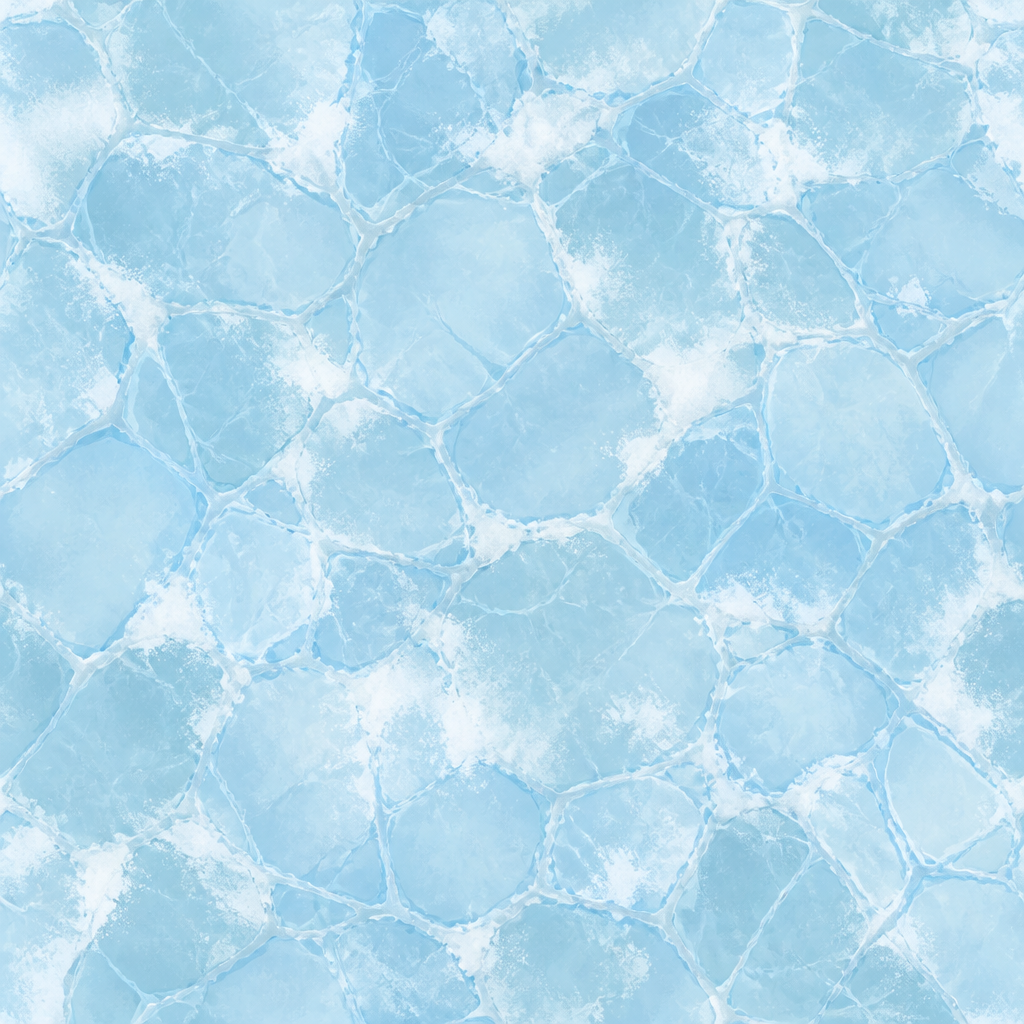
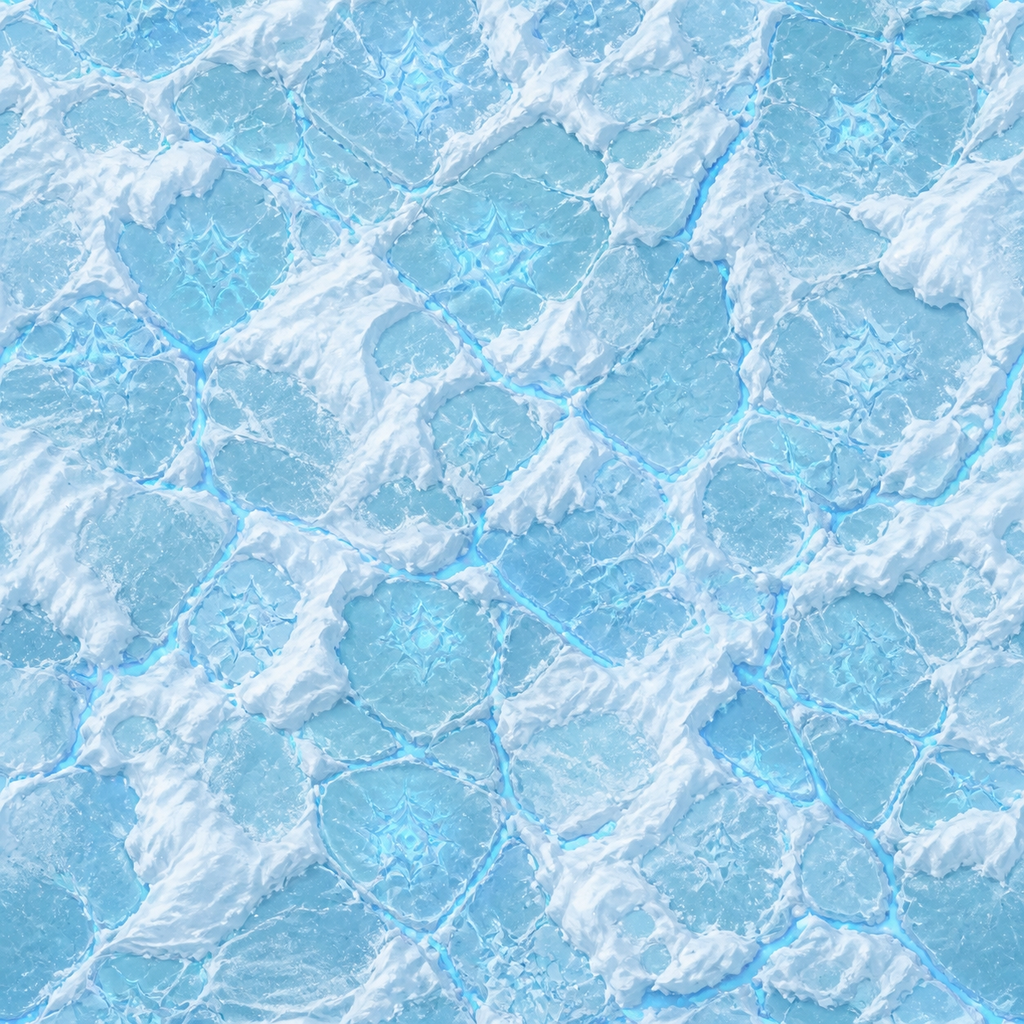
v483: 서리왕국 바닥 텍스처 재생성(눈 퇴적·빙하 균열·룬)·킹타워 지도별 테마 스킨 4지대×팀틴트

diff --git a/royal-arena/sw.js b/royal-arena/sw.js
@@ -1,10 +1,10 @@
-const CACHE = 'royal-arena-v482';
+const CACHE = 'royal-arena-v483';
 /* v449: 점진 캐싱 수복 — 구조 결함(install addAll 전량 실패) 제거.
    구버전: CORE 전량(330종·81MB) addAll → 자산 1개 실패 시 install reject → 기기가 구버전에 무기한 갇힘(v446 지연·미갱신 사고의 근원).
    신버전: ①install은 셸(html·js·아이콘, ~2MB)만 allSettled 선캐시 ②전체 assets는 activate 이후 백그라운드 프리페치(allSettled — 절대 reject 안 함)
    ③fetch는 기존 정책 유지(내비게이션 network-first·자산 SWR) — 개별 자산 실패가 갱신을 죽이지 않는다. */
 const SHELL = ['./', 'index.html', 'manifest.json', 'icon-192.png', 'icon-512.png', 'maskable-512.png', 'js/g1a-art-assets.js', 'js/g1b-art-assets.js', 'js/g1c-art-assets.js', 'js/g2-sprite-assets.js', 'js/g3-frame-assets.js', 'js/g4-ux-data.js', 'js/g5-core.js', 'js/g6-battle.js', 'js/g7-ui-systems.js', 'js/g8-boot.js', 'js/g9-wide.js', 'js/g10-techtree.js', 'qa-driver.js'];
-const ASSETS = ['assets/ra_card_netter.jpg', 'assets/ra_card_buzzer.jpg', 'assets/ra_card_batqueen.jpg', 'assets/ra_card_catapult.jpg', 'assets/ra_spr_netter.png', 'assets/ra_spr_buzzer.png', 'assets/ra_spr_batqueen.png', 'assets/ra_spr_catapult.png', 'assets/ra_walk_netter.png', 'assets/ra_walk_buzzer.png', 'assets/ra_walk_batqueen.png', 'assets/ra_atk_netter.png', 'assets/ra_atk_batqueen.png', 'assets/ra_btn_gold.png', 'assets/ra_btn_gilt.png', 'assets/ra_cta_plaque.png', 'assets/ra_btn_camp.png', 'assets/ra_btn_decked.png', 'assets/ra_btn_shield.png', 'assets/ra_btn_relic.png', 'assets/ra_btn_crown.png', 'assets/ra_btn_tactics.png', 'assets/ra_btn_diff.png', 'assets/ra_btn_diff_normal.png', 'assets/ra_btn_diff_nightmare.png', 'assets/ra_btn_diff_hell.png', 'assets/ra_boss_royal.png', 'assets/ra_boss_frost.png', 'assets/ra_boss_lava.png', 'assets/ra_boss_waste.png', 'assets/ra_boss_abyss.png', 'assets/ra_boss_sky.png', 'assets/ra_boss_tomb.png', 'assets/ra_boss_dusk.png', 'assets/ra_boss_divine.png', 'assets/ra_btn_navy.png', 'assets/ra_btn_plaque.png', 'assets/ra_btn_mapframe.png', 'assets/ra_map_classic.png', 'assets/ra_map_lava.png', 'assets/ra_map_ice.png', 'assets/ra_map_wasteland.png', 'assets/ra_map_abyss.png', 'assets/ra_map_sky.png', 'assets/ra_map_tomb.png', 'assets/ra_map_dusk.png', 'assets/ra_map_divine.png', 'assets/ra_btn_camp_new.png', 'assets/ra_atk_buzzer.png', 'assets/ra_boss_abyss_atk1.png', 'assets/ra_boss_abyss_atk2.png', 'assets/ra_boss_abyss_atk3.png', 'assets/ra_boss_divine_atk1.png', 'assets/ra_boss_divine_atk2.png', 'assets/ra_boss_divine_atk3.png', 'assets/ra_boss_sky_atk1.png', 'assets/ra_boss_sky_atk2.png', 'assets/ra_boss_sky_atk3.png', 'assets/ra_boss_tomb_atk1.png', 'assets/ra_boss_tomb_atk2.png', 'assets/ra_boss_tomb_atk3.png', 'assets/ra_pose_batqueen_1.png', 'assets/ra_pose_batqueen_2.png', 'assets/ra_pose_buzzer_1.png', 'assets/ra_pose_buzzer_2.png', 'assets/ra_pose_netter_1.png', 'assets/ra_pose_netter_2.png', 'assets/img_017.jpg', 'assets/img_018.jpg', 'assets/img_019.jpg', 'assets/img_020.jpg', 'assets/img_021.jpg', 'assets/img_022.jpg', 'assets/img_023.jpg', 'assets/img_024.jpg', 'assets/img_025.jpg', 'assets/img_026.jpg', 'assets/img_027.jpg', 'assets/img_028.jpg', 'assets/img_029.png', 'assets/img_030.png', 'assets/img_031.png', 'assets/img_032.png', 'assets/img_033.png', 'assets/img_034.png', 'assets/img_035.png', 'assets/img_036.png', 'assets/img_037.png', 'assets/img_038.png', 'assets/img_039.png', 'assets/img_040.png', 'assets/img_041.png', 'assets/img_042.png', 'assets/img_043.png', 'assets/img_044.png', 'assets/img_045.jpg', 'assets/img_046.jpg', 'assets/img_047.jpg', 'assets/img_048.jpg', 'assets/img_049.jpg', 'assets/img_050.jpg', 'assets/img_051.png', 'assets/img_052.png', 'assets/img_053.png', 'assets/img_054.png', 'assets/img_055.png', 'assets/img_056.png', 'assets/img_057.jpg', 'assets/img_058.png', 'assets/img_059.png', 'assets/img_060.png', 'assets/img_061.png', 'assets/img_062.png', 'assets/img_063.png', 'assets/img_064.png', 'assets/img_065.png', 'assets/img_066.jpg', 'assets/img_067.png', 'assets/img_068.png', 'assets/img_069.png', 'assets/img_070.jpg', 'assets/img_071.png', 'assets/img_072.png', 'assets/img_073.png', 'assets/img_074.png', 'assets/img_075.png', 'assets/img_076.png', 'assets/img_077.png', 'assets/img_078.png', 'assets/img_079.png', 'assets/img_080.png', 'assets/img_081.png', 'assets/img_082.png', 'assets/img_083.png', 'assets/img_084.png', 'assets/img_085.png', 'assets/img_086.png', 'assets/img_087.png', 'assets/img_088.png', 'assets/img_089.png', 'assets/img_090.png', 'assets/img_091.png', 'assets/img_092.png', 'assets/img_093.png', 'assets/img_094.png', 'assets/img_095.png', 'assets/img_096.png', 'assets/img_097.png', 'assets/img_098.png', 'assets/img_099.png', 'assets/img_100.png', 'assets/img_101.png', 'assets/img_102.png', 'assets/img_103.png', 'assets/img_104.png', 'assets/img_105.png', 'assets/img_106.png', 'assets/img_107.png', 'assets/img_108.png', 'assets/img_109.png', 'assets/img_110.png', 'assets/img_111.png', 'assets/img_112.png', 'assets/img_113.png', 'assets/img_114.png', 'assets/img_115.png', 'assets/img_116.png', 'assets/img_117.png', 'assets/img_118.png', 'assets/img_119.png', 'assets/img_120.png', 'assets/img_121.png', 'assets/img_122.png', 'assets/img_123.png', 'assets/img_124.png', 'assets/img_125.png', 'assets/img_126.png', 'assets/img_127.png', 'assets/img_128.png', 'assets/img_129.png', 'assets/img_130.png', 'assets/img_131.png', 'assets/img_132.png', 'assets/img_133.png', 'assets/img_134.png', 'assets/img_135.png', 'assets/img_136.png', 'assets/img_137.png', 'assets/img_138.png', 'assets/img_139.png', 'assets/img_140.png', 'assets/img_141.png', 'assets/img_142.png', 'assets/img_143.png', 'assets/img_144.png', 'assets/img_145.png', 'assets/img_146.png', 'assets/img_147.png', 'assets/img_148.png', 'assets/img_149.png', 'assets/img_150.png', 'assets/img_151.png', 'assets/img_152.png', 'assets/img_153.png', 'assets/img_154.png', 'assets/img_155.png', 'assets/img_156.png', 'assets/img_157.png', 'assets/img_158.png', 'assets/img_159.png', 'assets/img_160.png', 'assets/img_161.png', 'assets/img_162.png', 'assets/img_163.png', 'assets/img_164.png', 'assets/img_165.png', 'assets/img_166.png', 'assets/img_167.png', 'assets/img_168.png', 'assets/img_169.png', 'assets/img_170.png', 'assets/img_171.png', 'assets/img_172.png', 'assets/img_173.png', 'assets/img_174.png', 'assets/img_175.png', 'assets/img_176.png', 'assets/img_177.png', 'assets/img_178.png', 'assets/img_179.png', 'assets/img_180.png', 'assets/img_181.png', 'assets/img_182.jpg', 'assets/img_183.jpg', 'assets/img_184.png', 'assets/img_185.jpg', 'assets/img_186.jpg', 'assets/img_187.jpg', 'assets/img_188.png', 'assets/img_189.png', 'assets/img_190.png', 'assets/img_191.png', 'assets/img_192.png', 'assets/img_193.png', 'assets/img_194.png', 'assets/img_195.png', 'assets/img_196.png', 'assets/img_197.png', 'assets/img_198.png', 'assets/img_199.png', 'assets/img_200.png', 'assets/img_201.png', 'assets/img_202.png', 'assets/img_203.png', 'assets/img_204.png', 'assets/img_205.png', 'assets/img_206.png', 'assets/img_207.png', 'assets/img_208.png', 'assets/img_209.png', 'assets/img_210.png', 'assets/img_211.png', 'assets/img_212.png', 'assets/img_213.png', 'assets/img_214.png', 'assets/img_215.png', 'assets/img_216.png', 'assets/img_217.png', 'assets/img_218.png', 'assets/img_219.png', 'assets/img_220.png', 'assets/img_221.png', 'assets/img_222.png', 'assets/img_223.png', 'assets/img_224.png', 'assets/img_225.png', 'assets/img_226.png', 'assets/img_227.png', 'assets/img_228.png', 'assets/img_229.png', 'assets/img_230.png', 'assets/img_231.png', 'assets/img_232.png', 'assets/img_233.png', 'assets/img_234.png', 'assets/img_235.png', 'assets/img_236.png', 'assets/img_237.png', 'assets/img_238.png', 'assets/img_239.png', 'assets/img_240.jpg', 'assets/img_241.jpg', 'assets/img_242.jpg', 'assets/img_243.jpg', 'assets/img_244.jpg', 'assets/img_245.jpg', 'assets/img_246.png', 'assets/img_247.png', 'assets/img_248.png', 'assets/img_249.png', 'assets/img_250.png', 'assets/img_251.png', 'assets/img_252.jpg', 'assets/img_253.jpg', 'assets/img_254.jpg', 'assets/img_255.jpg', 'assets/img_256.jpg', 'assets/img_257.jpg', 'assets/img_258.png', 'assets/img_259.png', 'assets/img_260.png', 'assets/img_261.png', 'assets/img_262.png', 'assets/img_263.png', 'assets/img_264.png', 'assets/ra_card_babyd.jpg', 'assets/ra_card_blizzard.jpg', 'assets/ra_card_boar.jpg', 'assets/ra_card_bomber.jpg', 'assets/ra_card_cleric.jpg', 'assets/ra_card_flamer.jpg', 'assets/ra_card_fort.jpg', 'assets/ra_card_glass.jpg', 'assets/ra_card_golem.jpg', 'assets/ra_card_greed.jpg', 'assets/ra_card_healwind.jpg', 'assets/ra_card_icem.jpg', 'assets/ra_card_lordknight.jpg', 'assets/ra_card_meteor.jpg', 'assets/ra_card_plasma.jpg', 'assets/ra_card_scarecrow.jpg', 'assets/ra_card_shock.jpg', 'assets/ra_card_valk.jpg', 'assets/ra_card_venom.jpg', 'assets/ra_card_xbow.jpg', 'assets/ra_fat_flamer.png', 'assets/ra_fat_golem.png', 'assets/ra_fat_greed.png', 'assets/ra_fat_lordknight.png', 'assets/ra_fat_scarecrow.png', 'assets/ra_fat_xbow.png', 'assets/ra_frame_boss_atk.png', 'assets/ra_fx_boom.png', 'assets/ra_fx_crater.png', 'assets/ra_fx_frost.png', 'assets/ra_fx_heal.png', 'assets/ra_fx_hit.png', 'assets/ra_fx_plasma_beam.png', 'assets/ra_fx_shock.png', 'assets/ra_fx_slash.png', 'assets/ra_fx_venom.png', 'assets/ra_pose_babyd_1.png', 'assets/ra_pose_babyd_2.png', 'assets/ra_pose_cleric_1.png', 'assets/ra_pose_cleric_2.png', 'assets/ra_pose_icem_1.png', 'assets/ra_pose_icem_2.png', 'assets/ra_proj_bolt.png', 'assets/ra_proj_kingshot.png', 'assets/ra_spr_flamer.png', 'assets/ra_spr_fort.png', 'assets/ra_spr_glass.png', 'assets/ra_spr_golem.png', 'assets/ra_spr_greed.png', 'assets/ra_spr_lordknight.png', 'assets/ra_spr_scarecrow.png', 'assets/ra_spr_xbow.png', 'assets/ra_tow_princess_abyss.png', 'assets/ra_tow_princess_ice.png', 'assets/ra_tow_princess_lava.png', 'assets/ra_tow_princess_wasteland.png', 'assets/ra_walk_archers.png', 'assets/ra_walk_boar.png', 'assets/ra_walk_bomber.png', 'assets/ra_walk_cleric.png', 'assets/ra_walk_flamer.png', 'assets/ra_walk_giant.png', 'assets/ra_walk_golem.png', 'assets/ra_walk_greed.png', 'assets/ra_walk_icem.png', 'assets/ra_walk_knight.png', 'assets/ra_walk_lordknight.png', 'assets/ra_walk_musketeer.png', 'assets/ra_walk_prince.png', 'assets/ra_walk_scarecrow.png', 'assets/ra_walk_skarmy.png', 'assets/ra_walk_sniper.png', 'assets/ra_walk_valk.png', 'assets/ra_walk_wizard.png', 'assets/ra_walk_xbow.png', 'assets/ra_practice_arena.png', 'assets/ra_test_floor.png', 'assets/ra_test_king_b.png', 'assets/ra_test_princess_b.png', 'assets/ra_test_king_r.png', 'assets/ra_test_princess_r.png', 'assets/ra_test_unit_idle.png', 'assets/ra_test_unit_atk.png', 'assets/ra_test_proj.png', 'assets/ra_tow457_king_b.png', 'assets/ra_tow457_princess_b.png', 'assets/ra_tow457_king_r.png', 'assets/ra_tow457_princess_r.png', 'assets/ra_tk_off1.png', 'assets/ra_tk_off2.png', 'assets/ra_tk_off2b.png', 'assets/ra_tk_off3.png', 'assets/ra_tk_def1.png', 'assets/ra_tk_def2.png', 'assets/ra_tk_def2b.png', 'assets/ra_tk_def3.png', 'assets/ra_tk_mag1.png', 'assets/ra_tk_mag2.png', 'assets/ra_tk_mag2b.png', 'assets/ra_tk_mag3.png', 'assets/ra_rl_relic_atk.png', 'assets/ra_rl_relic_guard.png', 'assets/ra_rl_relic_tower.png', 'assets/ra_rl_relic_speed.png', 'assets/ra_rl_relic_spell.png', 'assets/ra_rl_relic_repair.png', 'assets/ra_rl_relic_gold.png', 'assets/ra_rl_relic_ante.png', 'assets/ra_rl_ui_book.png', 'assets/ra_rl_ui_gem.png', 'assets/ra_rl_ui_scroll.png', 'assets/ra_rl_ui_lab.png'];
+const ASSETS = ['assets/ra_card_netter.jpg', 'assets/ra_card_buzzer.jpg', 'assets/ra_card_batqueen.jpg', 'assets/ra_card_catapult.jpg', 'assets/ra_spr_netter.png', 'assets/ra_spr_buzzer.png', 'assets/ra_spr_batqueen.png', 'assets/ra_spr_catapult.png', 'assets/ra_walk_netter.png', 'assets/ra_walk_buzzer.png', 'assets/ra_walk_batqueen.png', 'assets/ra_atk_netter.png', 'assets/ra_atk_batqueen.png', 'assets/ra_btn_gold.png', 'assets/ra_btn_gilt.png', 'assets/ra_kt_ice.png','assets/ra_kt_ice_b.png','assets/ra_kt_ice_r.png','assets/ra_kt_lava.png','assets/ra_kt_lava_b.png','assets/ra_kt_lava_r.png','assets/ra_kt_wasteland.png','assets/ra_kt_wasteland_b.png','assets/ra_kt_wasteland_r.png','assets/ra_kt_abyss.png','assets/ra_kt_abyss_b.png','assets/ra_kt_abyss_r.png', 'assets/ra_cta_plaque.png', 'assets/ra_btn_camp.png', 'assets/ra_btn_decked.png', 'assets/ra_btn_shield.png', 'assets/ra_btn_relic.png', 'assets/ra_btn_crown.png', 'assets/ra_btn_tactics.png', 'assets/ra_btn_diff.png', 'assets/ra_btn_diff_normal.png', 'assets/ra_btn_diff_nightmare.png', 'assets/ra_btn_diff_hell.png', 'assets/ra_boss_royal.png', 'assets/ra_boss_frost.png', 'assets/ra_boss_lava.png', 'assets/ra_boss_waste.png', 'assets/ra_boss_abyss.png', 'assets/ra_boss_sky.png', 'assets/ra_boss_tomb.png', 'assets/ra_boss_dusk.png', 'assets/ra_boss_divine.png', 'assets/ra_btn_navy.png', 'assets/ra_btn_plaque.png', 'assets/ra_btn_mapframe.png', 'assets/ra_map_classic.png', 'assets/ra_map_lava.png', 'assets/ra_map_ice.png', 'assets/ra_map_wasteland.png', 'assets/ra_map_abyss.png', 'assets/ra_map_sky.png', 'assets/ra_map_tomb.png', 'assets/ra_map_dusk.png', 'assets/ra_map_divine.png', 'assets/ra_btn_camp_new.png', 'assets/ra_atk_buzzer.png', 'assets/ra_boss_abyss_atk1.png', 'assets/ra_boss_abyss_atk2.png', 'assets/ra_boss_abyss_atk3.png', 'assets/ra_boss_divine_atk1.png', 'assets/ra_boss_divine_atk2.png', 'assets/ra_boss_divine_atk3.png', 'assets/ra_boss_sky_atk1.png', 'assets/ra_boss_sky_atk2.png', 'assets/ra_boss_sky_atk3.png', 'assets/ra_boss_tomb_atk1.png', 'assets/ra_boss_tomb_atk2.png', 'assets/ra_boss_tomb_atk3.png', 'assets/ra_pose_batqueen_1.png', 'assets/ra_pose_batqueen_2.png', 'assets/ra_pose_buzzer_1.png', 'assets/ra_pose_buzzer_2.png', 'assets/ra_pose_netter_1.png', 'assets/ra_pose_netter_2.png', 'assets/img_017.jpg', 'assets/img_018.jpg', 'assets/img_019.jpg', 'assets/img_020.jpg', 'assets/img_021.jpg', 'assets/img_022.jpg', 'assets/img_023.jpg', 'assets/img_024.jpg', 'assets/img_025.jpg', 'assets/img_026.jpg', 'assets/img_027.jpg', 'assets/img_028.jpg', 'assets/img_029.png', 'assets/img_030.png', 'assets/img_031.png', 'assets/img_032.png', 'assets/img_033.png', 'assets/img_034.png', 'assets/img_035.png', 'assets/img_036.png', 'assets/img_037.png', 'assets/img_038.png', 'assets/img_039.png', 'assets/img_040.png', 'assets/img_041.png', 'assets/img_042.png', 'assets/img_043.png', 'assets/img_044.png', 'assets/img_045.jpg', 'assets/img_046.jpg', 'assets/img_047.jpg', 'assets/img_048.jpg', 'assets/img_049.jpg', 'assets/img_050.jpg', 'assets/img_051.png', 'assets/img_052.png', 'assets/img_053.png', 'assets/img_054.png', 'assets/img_055.png', 'assets/img_056.png', 'assets/img_057.jpg', 'assets/img_058.png', 'assets/img_059.png', 'assets/img_060.png', 'assets/img_061.png', 'assets/img_062.png', 'assets/img_063.png', 'assets/img_064.png', 'assets/img_065.png', 'assets/img_066.jpg', 'assets/img_067.png', 'assets/img_068.png', 'assets/img_069.png', 'assets/img_070.jpg', 'assets/img_071.png', 'assets/img_072.png', 'assets/img_073.png', 'assets/img_074.png', 'assets/img_075.png', 'assets/img_076.png', 'assets/img_077.png', 'assets/img_078.png', 'assets/img_079.png', 'assets/img_080.png', 'assets/img_081.png', 'assets/img_082.png', 'assets/img_083.png', 'assets/img_084.png', 'assets/img_085.png', 'assets/img_086.png', 'assets/img_087.png', 'assets/img_088.png', 'assets/img_089.png', 'assets/img_090.png', 'assets/img_091.png', 'assets/img_092.png', 'assets/img_093.png', 'assets/img_094.png', 'assets/img_095.png', 'assets/img_096.png', 'assets/img_097.png', 'assets/img_098.png', 'assets/img_099.png', 'assets/img_100.png', 'assets/img_101.png', 'assets/img_102.png', 'assets/img_103.png', 'assets/img_104.png', 'assets/img_105.png', 'assets/img_106.png', 'assets/img_107.png', 'assets/img_108.png', 'assets/img_109.png', 'assets/img_110.png', 'assets/img_111.png', 'assets/img_112.png', 'assets/img_113.png', 'assets/img_114.png', 'assets/img_115.png', 'assets/img_116.png', 'assets/img_117.png', 'assets/img_118.png', 'assets/img_119.png', 'assets/img_120.png', 'assets/img_121.png', 'assets/img_122.png', 'assets/img_123.png', 'assets/img_124.png', 'assets/img_125.png', 'assets/img_126.png', 'assets/img_127.png', 'assets/img_128.png', 'assets/img_129.png', 'assets/img_130.png', 'assets/img_131.png', 'assets/img_132.png', 'assets/img_133.png', 'assets/img_134.png', 'assets/img_135.png', 'assets/img_136.png', 'assets/img_137.png', 'assets/img_138.png', 'assets/img_139.png', 'assets/img_140.png', 'assets/img_141.png', 'assets/img_142.png', 'assets/img_143.png', 'assets/img_144.png', 'assets/img_145.png', 'assets/img_146.png', 'assets/img_147.png', 'assets/img_148.png', 'assets/img_149.png', 'assets/img_150.png', 'assets/img_151.png', 'assets/img_152.png', 'assets/img_153.png', 'assets/img_154.png', 'assets/img_155.png', 'assets/img_156.png', 'assets/img_157.png', 'assets/img_158.png', 'assets/img_159.png', 'assets/img_160.png', 'assets/img_161.png', 'assets/img_162.png', 'assets/img_163.png', 'assets/img_164.png', 'assets/img_165.png', 'assets/img_166.png', 'assets/img_167.png', 'assets/img_168.png', 'assets/img_169.png', 'assets/img_170.png', 'assets/img_171.png', 'assets/img_172.png', 'assets/img_173.png', 'assets/img_174.png', 'assets/img_175.png', 'assets/img_176.png', 'assets/img_177.png', 'assets/img_178.png', 'assets/img_179.png', 'assets/img_180.png', 'assets/img_181.png', 'assets/img_182.jpg', 'assets/img_183.jpg', 'assets/img_184.png', 'assets/img_185.jpg', 'assets/img_186.jpg', 'assets/img_187.jpg', 'assets/img_188.png', 'assets/img_189.png', 'assets/img_190.png', 'assets/img_191.png', 'assets/img_192.png', 'assets/img_193.png', 'assets/img_194.png', 'assets/img_195.png', 'assets/img_196.png', 'assets/img_197.png', 'assets/img_198.png', 'assets/img_199.png', 'assets/img_200.png', 'assets/img_201.png', 'assets/img_202.png', 'assets/img_203.png', 'assets/img_204.png', 'assets/img_205.png', 'assets/img_206.png', 'assets/img_207.png', 'assets/img_208.png', 'assets/img_209.png', 'assets/img_210.png', 'assets/img_211.png', 'assets/img_212.png', 'assets/img_213.png', 'assets/img_214.png', 'assets/img_215.png', 'assets/img_216.png', 'assets/img_217.png', 'assets/img_218.png', 'assets/img_219.png', 'assets/img_220.png', 'assets/img_221.png', 'assets/img_222.png', 'assets/img_223.png', 'assets/img_224.png', 'assets/img_225.png', 'assets/img_226.png', 'assets/img_227.png', 'assets/img_228.png', 'assets/img_229.png', 'assets/img_230.png', 'assets/img_231.png', 'assets/img_232.png', 'assets/img_233.png', 'assets/img_234.png', 'assets/img_235.png', 'assets/img_236.png', 'assets/img_237.png', 'assets/img_238.png', 'assets/img_239.png', 'assets/img_240.jpg', 'assets/img_241.jpg', 'assets/img_242.jpg', 'assets/img_243.jpg', 'assets/img_244.jpg', 'assets/img_245.jpg', 'assets/img_246.png', 'assets/img_247.png', 'assets/img_248.png', 'assets/img_249.png', 'assets/img_250.png', 'assets/img_251.png', 'assets/img_252.jpg', 'assets/img_253.jpg', 'assets/img_254.jpg', 'assets/img_255.jpg', 'assets/img_256.jpg', 'assets/img_257.jpg', 'assets/img_258.png', 'assets/img_259.png', 'assets/img_260.png', 'assets/img_261.png', 'assets/img_262.png', 'assets/img_263.png', 'assets/img_264.png', 'assets/ra_card_babyd.jpg', 'assets/ra_card_blizzard.jpg', 'assets/ra_card_boar.jpg', 'assets/ra_card_bomber.jpg', 'assets/ra_card_cleric.jpg', 'assets/ra_card_flamer.jpg', 'assets/ra_card_fort.jpg', 'assets/ra_card_glass.jpg', 'assets/ra_card_golem.jpg', 'assets/ra_card_greed.jpg', 'assets/ra_card_healwind.jpg', 'assets/ra_card_icem.jpg', 'assets/ra_card_lordknight.jpg', 'assets/ra_card_meteor.jpg', 'assets/ra_card_plasma.jpg', 'assets/ra_card_scarecrow.jpg', 'assets/ra_card_shock.jpg', 'assets/ra_card_valk.jpg', 'assets/ra_card_venom.jpg', 'assets/ra_card_xbow.jpg', 'assets/ra_fat_flamer.png', 'assets/ra_fat_golem.png', 'assets/ra_fat_greed.png', 'assets/ra_fat_lordknight.png', 'assets/ra_fat_scarecrow.png', 'assets/ra_fat_xbow.png', 'assets/ra_frame_boss_atk.png', 'assets/ra_fx_boom.png', 'assets/ra_fx_crater.png', 'assets/ra_fx_frost.png', 'assets/ra_fx_heal.png', 'assets/ra_fx_hit.png', 'assets/ra_fx_plasma_beam.png', 'assets/ra_fx_shock.png', 'assets/ra_fx_slash.png', 'assets/ra_fx_venom.png', 'assets/ra_pose_babyd_1.png', 'assets/ra_pose_babyd_2.png', 'assets/ra_pose_cleric_1.png', 'assets/ra_pose_cleric_2.png', 'assets/ra_pose_icem_1.png', 'assets/ra_pose_icem_2.png', 'assets/ra_proj_bolt.png', 'assets/ra_proj_kingshot.png', 'assets/ra_spr_flamer.png', 'assets/ra_spr_fort.png', 'assets/ra_spr_glass.png', 'assets/ra_spr_golem.png', 'assets/ra_spr_greed.png', 'assets/ra_spr_lordknight.png', 'assets/ra_spr_scarecrow.png', 'assets/ra_spr_xbow.png', 'assets/ra_tow_princess_abyss.png', 'assets/ra_tow_princess_ice.png', 'assets/ra_tow_princess_lava.png', 'assets/ra_tow_princess_wasteland.png', 'assets/ra_walk_archers.png', 'assets/ra_walk_boar.png', 'assets/ra_walk_bomber.png', 'assets/ra_walk_cleric.png', 'assets/ra_walk_flamer.png', 'assets/ra_walk_giant.png', 'assets/ra_walk_golem.png', 'assets/ra_walk_greed.png', 'assets/ra_walk_icem.png', 'assets/ra_walk_knight.png', 'assets/ra_walk_lordknight.png', 'assets/ra_walk_musketeer.png', 'assets/ra_walk_prince.png', 'assets/ra_walk_scarecrow.png', 'assets/ra_walk_skarmy.png', 'assets/ra_walk_sniper.png', 'assets/ra_walk_valk.png', 'assets/ra_walk_wizard.png', 'assets/ra_walk_xbow.png', 'assets/ra_practice_arena.png', 'assets/ra_test_floor.png', 'assets/ra_test_king_b.png', 'assets/ra_test_princess_b.png', 'assets/ra_test_king_r.png', 'assets/ra_test_princess_r.png', 'assets/ra_test_unit_idle.png', 'assets/ra_test_unit_atk.png', 'assets/ra_test_proj.png', 'assets/ra_tow457_king_b.png', 'assets/ra_tow457_princess_b.png', 'assets/ra_tow457_king_r.png', 'assets/ra_tow457_princess_r.png', 'assets/ra_tk_off1.png', 'assets/ra_tk_off2.png', 'assets/ra_tk_off2b.png', 'assets/ra_tk_off3.png', 'assets/ra_tk_def1.png', 'assets/ra_tk_def2.png', 'assets/ra_tk_def2b.png', 'assets/ra_tk_def3.png', 'assets/ra_tk_mag1.png', 'assets/ra_tk_mag2.png', 'assets/ra_tk_mag2b.png', 'assets/ra_tk_mag3.png', 'assets/ra_rl_relic_atk.png', 'assets/ra_rl_relic_guard.png', 'assets/ra_rl_relic_tower.png', 'assets/ra_rl_relic_speed.png', 'assets/ra_rl_relic_spell.png', 'assets/ra_rl_relic_repair.png', 'assets/ra_rl_relic_gold.png', 'assets/ra_rl_relic_ante.png', 'assets/ra_rl_ui_book.png', 'assets/ra_rl_ui_gem.png', 'assets/ra_rl_ui_scroll.png', 'assets/ra_rl_ui_lab.png'];
 self.addEventListener('install', e => {
   e.waitUntil((async () => {
     try {

diff --git a/royal-arena/index.html b/royal-arena/index.html
@@ -1166,7 +1166,7 @@ html body #overlay-info>div{height:100% !important}
 html body #overlay-info .t-how,html body #overlay-info .t-note{padding-bottom:14px !important}
 html body #overlay-info #btn-info-close{position:sticky !important;bottom:calc(6px + env(safe-area-inset-bottom,0px)) !important;margin:10px auto 0 !important;flex-shrink:0 !important;z-index:7 !important;box-shadow:0 4px 14px rgba(0,0,0,.55) !important}
 html body #overlay-info{padding-bottom:env(safe-area-inset-bottom,0px) !important}
-</style><style id="ui-v453">/* v453: 연습게임 버튼 상단 우측 소형 배치 - 지도버튼보다 작음·겹침 방지(screen-audit 규약) */ #btn-practice{position:absolute!important;right:8px!important;left:auto!important;top:6px!important;bottom:auto!important;height:26px!important;min-height:0!important;min-width:0!important;width:auto!important;padding:0 9px!important;font-size:10px!important;border-radius:10px!important;z-index:60!important} #zoom-chip{max-width:calc(100% - 96px)!important}</style><div id="verchip" style="position:fixed;left:6px;bottom:2px;z-index:99990;background:rgba(0,0,0,.55);color:#ffd75e;font:700 10px monospace;padding:2px 6px;opacity:.62;border-radius:8px;pointer-events:none">v482</div><div id="app">
+</style><style id="ui-v453">/* v453: 연습게임 버튼 상단 우측 소형 배치 - 지도버튼보다 작음·겹침 방지(screen-audit 규약) */ #btn-practice{position:absolute!important;right:8px!important;left:auto!important;top:6px!important;bottom:auto!important;height:26px!important;min-height:0!important;min-width:0!important;width:auto!important;padding:0 9px!important;font-size:10px!important;border-radius:10px!important;z-index:60!important} #zoom-chip{max-width:calc(100% - 96px)!important}</style><div id="verchip" style="position:fixed;left:6px;bottom:2px;z-index:99990;background:rgba(0,0,0,.55);color:#ffd75e;font:700 10px monospace;padding:2px 6px;opacity:.62;border-radius:8px;pointer-events:none">v483</div><div id="app">
 
   <!-- ===== 타이틀 ===== -->
   <section id="screen-title">
@@ -1536,7 +1536,7 @@ html body .rrow-mirror b{font-size:11px !important;line-height:1.5 !important;wh
 
 
 <script src="js/g2-sprite-assets.js?v=466"></script>
-<script id="ui-v482-js">/* v482: 승리 화면 — 다시 배틀 버튼을 다음 스테이지(다음 지도) 진입으로 전환. 패배/무승부·최종 지도 클리어 시 기존 다시 배틀 유지 */
+<script id="ui-v483-js">/* v483: 승리 화면 — 다시 배틀 버튼을 다음 스테이지(다음 지도) 진입으로 전환. 패배/무승부·최종 지도 클리어 시 기존 다시 배틀 유지 */
 (function(){
   function mlen(){ try{ return window.__raMAPS.length; }catch(e){ return 9; } }
   var __orig=showResult;
@@ -2353,15 +2353,15 @@ b.addEventListener('click',function(){ov.className='';last=performance.now();coo
 })();
 </script>
 <style id="ui-v456">/* v456: 덱1/덱2-메뉴행 간격 절반 압축(26px→13px) — deck-desc 라인 절반화, 난이도 노출 유지 */ html body #app #deck-desc{margin:0!important;line-height:10px!important;min-height:10px!important;font-size:9px!important} html body #app #title-actions{margin-top:0!important}</style>
-<style id="ui-v482">/* v482: 결과 화면 잘림·겹침 수복 — .r-box footer 핀 고정(버튼이 통계를 덮지 않음)+프레임 하단 침범 제거(rect 기계 판정, 실구조 fw-wrap+r-box) */ html body #overlay-result .r-box{display:flex!important;flex-direction:column!important;max-height:calc(100vh - 36px)!important;overflow:hidden!important;margin:18px auto!important;box-sizing:border-box!important} html body #overlay-result .r-box > *{flex-shrink:0!important} html body #overlay-result .r-box .r-actions,html body #overlay-result .r-box .r-btns,html body #overlay-result .r-box .r-btnrow,html body #overlay-result .r-box .rbtns{flex-shrink:0!important;margin-top:6px!important} html body #overlay-result .r-box .r-scroll,html body #overlay-result .r-box .r-stats,html body #overlay-result .r-box .rlist{flex:1 1 auto!important;overflow-y:auto!important;min-height:0!important} html body #overlay-result .r-box{padding-bottom:10px!important}</style>
-<style id="ui-v482">/* v482: 결과 박스 50px 상승(margin-bottom +100=상승 50)+통계 2열 grid 재적용(1297행 1fr 단일 열 복원보다 후순위) — 사용자 캡처 요청 */
+<style id="ui-v483">/* v483: 결과 화면 잘림·겹침 수복 — .r-box footer 핀 고정(버튼이 통계를 덮지 않음)+프레임 하단 침범 제거(rect 기계 판정, 실구조 fw-wrap+r-box) */ html body #overlay-result .r-box{display:flex!important;flex-direction:column!important;max-height:calc(100vh - 36px)!important;overflow:hidden!important;margin:18px auto!important;box-sizing:border-box!important} html body #overlay-result .r-box > *{flex-shrink:0!important} html body #overlay-result .r-box .r-actions,html body #overlay-result .r-box .r-btns,html body #overlay-result .r-box .r-btnrow,html body #overlay-result .r-box .rbtns{flex-shrink:0!important;margin-top:6px!important} html body #overlay-result .r-box .r-scroll,html body #overlay-result .r-box .r-stats,html body #overlay-result .r-box .rlist{flex:1 1 auto!important;overflow-y:auto!important;min-height:0!important} html body #overlay-result .r-box{padding-bottom:10px!important}</style>
+<style id="ui-v483">/* v483: 결과 박스 50px 상승(margin-bottom +100=상승 50)+통계 2열 grid 재적용(1297행 1fr 단일 열 복원보다 후순위) — 사용자 캡처 요청 */
 html body #overlay-result .r-box{margin:18px auto 118px!important;max-height:calc(100vh - 140px)!important}
 html body #overlay-result #rpane-score{display:grid!important;grid-template-columns:1fr 1fr!important;gap:2px 8px!important;flex:1 1 auto!important;overflow-y:auto!important;min-height:0!important}
 html body #overlay-result #rpane-score .rrow{display:flex!important;justify-content:space-between!important;align-items:baseline!important;gap:4px!important;font-size:10.5px!important;padding:2px 4px!important;margin:0!important}
 html body #overlay-result #rpane-score .rrow span{white-space:nowrap!important;overflow:hidden!important;text-overflow:ellipsis!important;min-width:0}
 html body #overlay-result #rpane-score .rrow b{flex:none!important;font-size:12px!important}
 html body #overlay-result #rpane-score .rrow.rsum{grid-column:1/-1!important} html body #overlay-result #r-art{width:84px!important;height:84px!important;margin:0 auto 6px!important} html body #overlay-result #r-sub{margin:2px 0 4px!important} html body #overlay-result #r-title{margin-bottom:2px!important} html body #overlay-result .r-tabs{margin:0 0 4px!important}</style>
-<style id="ui-v482">/* v482: 결과 박스 무스크롤 전체 노출 — 버튼 한 행 래핑+아트 72px+행 높이 압축(2열 유지·50px 상승 유지) */
+<style id="ui-v483">/* v483: 결과 박스 무스크롤 전체 노출 — 버튼 한 행 래핑+아트 72px+행 높이 압축(2열 유지·50px 상승 유지) */
 html body #overlay-result .r-box{margin:18px auto 118px!important;max-height:calc(100vh - 140px)!important}
 html body #overlay-result #r-art{width:60px!important;height:60px!important;margin:0 auto 3px!important}
 html body #overlay-result #r-title{font-size:20px!important;margin-bottom:1px!important}
@@ -2377,13 +2377,13 @@ html body #overlay-result #rpane-score .rrow.rsum{grid-column:1/-1!important}
 html body #overlay-result  #r-btnrow{display:flex!important;gap:8px!important;margin-top:3px!important;flex-shrink:0!important}
 html body #overlay-result #r-btnrow #btn-again{flex:1.4 1 0!important;width:auto!important;min-width:0!important;margin:0!important;padding:9px 10px!important;font-size:16px!important;height:auto!important}
 html body #overlay-result #r-btnrow #btn-home{flex:1 1 0!important;width:auto!important;min-width:0!important;margin:0!important;padding:9px 8px!important;font-size:13px!important;height:auto!important}</style>
-<style id="ui-v482">/* v482: 통계 창 내부 스크롤 제거 — g2 런타임 .rrow height:30px 무력화(height:auto)+pane 자연 높이+박스 스크롤 전환(sticky 버튼 행), 2열·50px 상승 유지 */
+<style id="ui-v483">/* v483: 통계 창 내부 스크롤 제거 — g2 런타임 .rrow height:30px 무력화(height:auto)+pane 자연 높이+박스 스크롤 전환(sticky 버튼 행), 2열·50px 상승 유지 */
 html body #overlay-result #rpane-score{flex:0 0 auto!important;overflow:visible!important;height:auto!important;min-height:0!important}
 html body #overlay-result #rpane-score .rrow{height:auto!important;min-height:0!important;font-size:10px!important;padding:2px 4px!important;line-height:1.25!important;margin:0!important}
 html body #overlay-result #rpane-score .rrow b{font-size:11px!important}
 html body #overlay-result .r-box{overflow-y:auto!important;max-height:calc(100vh - 140px)!important;overscroll-behavior:contain!important}
 html body #overlay-result #r-btnrow{position:sticky!important;bottom:0!important;z-index:2!important;background:linear-gradient(180deg,rgba(8,12,26,0),rgba(8,12,26,.9) 30%)!important;padding-top:4px!important}</style>
-<style id="ui-v482">/* v482: 패배 화면 수납 수복 — 사용자 캡처(최악조건 낮은 뷰포트에서 버튼이 마지막 통계를 덮음)+가독·디자인 개선. 2열·상승 유지 */
+<style id="ui-v483">/* v483: 패배 화면 수납 수복 — 사용자 캡처(최악조건 낮은 뷰포트에서 버튼이 마지막 통계를 덮음)+가독·디자인 개선. 2열·상승 유지 */
 html body #overlay-result .r-box{max-height:none!important;margin:14px auto 108px!important}
 html body #overlay-result #rpane-score{max-height:none!important;overflow:visible!important}
 html body #overlay-result #rpane-score .rrow{font-size:11.5px!important;padding:3px 5px!important;line-height:1.45!important}
@@ -2399,7 +2399,7 @@ html body #overlay-result #r-btnrow{padding-bottom:4px!important}</style>
 html body #overlay-result .ric{width:15px!important;height:15px!important;vertical-align:-3px!important;margin-right:3px!important;display:inline-block!important}
 html body #overlay-result .ric2{width:17px!important;height:17px!important;vertical-align:-4px!important;margin:0 1px!important}
 html body #overlay-result .rtab .ric{width:13px!important;height:13px!important;vertical-align:-2px!important}</style>
-<style id="ui-v482">/* v482: 도움말 모달 — 이모지→아이콘 칩·하단 버튼 잘림·verchip 겹침 수복 */
+<style id="ui-v483">/* v483: 도움말 모달 — 이모지→아이콘 칩·하단 버튼 잘림·verchip 겹침 수복 */
 .hico{width:20px;height:20px;vertical-align:-4px;margin-right:5px;border-radius:5px;box-shadow:0 0 0 1px rgba(255,179,0,.35)}
 .info-box{padding-bottom:56px}
 .info-box .t-spec{padding-left:0}
@@ -2408,17 +2408,17 @@ html body #overlay-result .rtab .ric{width:13px!important;height:13px!important;
 .info-box .t-spec li b{color:#ffd75e}
 .numb{display:inline-flex;width:19px;height:19px;border-radius:50%;background:linear-gradient(#ffd75e,#b8860b);color:#1a0e00;font-weight:800;font-size:12px;align-items:center;justify-content:center;margin:0 5px 0 0;flex:0 0 19px;vertical-align:-3px}
 #btn-info .hico{margin-right:6px}
-</style><style id="ui-v482">/* v482: 도움말 확인 버튼 핀(스크롤 중에도 가시)·패널 하단 여백 */
+</style><style id="ui-v483">/* v483: 도움말 확인 버튼 핀(스크롤 중에도 가시)·패널 하단 여백 */
 .info-box #btn-info-close{position:sticky;bottom:0;margin-top:10px;z-index:2;box-shadow:0 -10px 14px rgba(10,14,26,.92)}
-</style><style id="ui-v482">/* v482: 확인 버튼 대비 수복 — 금배경·다크문자(원본 .t-cta 충돌 제거) */
+</style><style id="ui-v483">/* v483: 확인 버튼 대비 수복 — 금배경·다크문자(원본 .t-cta 충돌 제거) */
 .info-box #btn-info-close{background:linear-gradient(#ffd75e,#b8860b) !important;color:#1a0e00 !important;font-size:15px !important;font-weight:800 !important;border:1.5px solid #8a6a00 !important;text-shadow:none !important}
-</style><style id="ui-v482">/* v482: 금테두리 고정 프레임(5px 전 화면 동일)+통계창(#rpane-score) 스크롤 수복+금빛 버튼 스킨(ra_btn_gilt) */
+</style><style id="ui-v483">/* v483: 금테두리 고정 프레임(5px 전 화면 동일)+통계창(#rpane-score) 스크롤 수복+금빛 버튼 스킨(ra_btn_gilt) */
 html body #overlay-result .r-box{border:5px solid #c89b3c!important;border-radius:20px!important;box-shadow:inset 0 0 0 1.5px #ffe08a,0 20px 60px rgba(0,0,0,.6)!important;padding:16px 16px 12px!important;max-width:360px!important}
 html body #overlay-result .r-box #rpane-score,html body #overlay-result .r-box #rpane-rank{flex:1 1 auto!important;overflow-y:auto!important;min-height:0!important}
 html body #overlay-result #r-btnrow #btn-again,html body #overlay-result #r-btnrow #btn-home{background:url(assets/ra_btn_gilt.png)!important;background-size:100% 100%!important;border:none!important;color:#2a1a00!important;text-shadow:0 1px 0 rgba(255,240,180,.6)!important}
-</style><style id="ui-v482">/* v482: 금테두리 원복(2px)+결과 박스 세로 30% 확장(min-height 84vh — 텍스트 가독) */
+</style><style id="ui-v483">/* v483: 금테두리 원복(2px)+결과 박스 세로 30% 확장(min-height 84vh — 텍스트 가독) */
 html body #overlay-result .r-box{border:2px solid var(--gold)!important;box-shadow:0 20px 60px rgba(0,0,0,.6)!important;min-height:84vh!important;margin:14px auto 14px!important}
-</style><style id="ui-v482">/* v482: 패배 화면 프레임 규칙 통일 — 상하 금테두리 동일 노출(max-height 제약+내부 스크롤, 하단 테두리 화면 밖 유출 제거) */
+</style><style id="ui-v483">/* v483: 패배 화면 프레임 규칙 통일 — 상하 금테두리 동일 노출(max-height 제약+내부 스크롤, 하단 테두리 화면 밖 유출 제거) */
 html body #overlay-result .r-box{max-height:calc(100vh - 28px)!important;margin:14px auto!important}
 </style></body>
 </html>

diff --git a/royal-arena/js/g1a-art-assets.js b/royal-arena/js/g1a-art-assets.js
@@ -651,7 +651,11 @@ const UMOT={_def:{},babyd:{flut:1},minions:{flut:1},cleric:{halo:1},boar:{dust:1
 const TRAIL={kingshot:'rgba(255,215,94,.9)',arrow:'rgba(232,226,200,.9)',bullet:'#ffe9a8',bomb:'#ffcf7a',wizfb:'#ffb14d',dragon:'#ff9d3c',ice:'#9cdcff',cannon:'#cfd6e0',bolt:'#e8f0fa'};   /* v332: 볼트 꼬리 추가 */
 const PROJ_SFX_LAUNCH={arrow:'bow',bullet:'musket',bolt:'xbow',wizfb:'firel',dragon:'firel',bomb:'toss',ice:'icel',cannon:'cannon'};   /* v321 */
 /* v324: 프린세스 타워 테마 스킨 게터 — 현재 테마 전용 아트(TSPR 자동 로딩) */
-function __towSkinImg(theme){ try{ if(!theme) return null; var s=TSPR['t_princess_'+theme]; return (s&&s.complete&&s.naturalWidth>0&&s.__valid!==false)?s:null; }catch(e){ return null; } }
+function __towSkinImg(theme,isKing,team){ try{
+  if(!theme) return null;
+  if(isKing){ var kk=window.__KT_IM&&window.__KT_IM[theme+'_'+(team||'n')]; return (kk&&kk.complete&&kk.naturalWidth>0)?kk:null; }
+  var s=TSPR['t_princess_'+theme]; return (s&&s.complete&&s.naturalWidth>0&&s.__valid!==false)?s:null; }catch(e){ return null; } }
+window.__KT_IM={};['ice','lava','wasteland','abyss'].forEach(function(th){['b','r','n'].forEach(function(tm){var im=new Image();im.src='assets/ra_kt_'+th+(tm==='n'?'':'_'+tm)+'.png?v=483';window.__KT_IM[th+'_'+tm]=im;});});   /* v483: 킹타워 테마 스킨 4지대×3톤 */
 /* v324: 원소 콤보 엔진 — 4초 내 이종 원소 재적중 보너스 */
 const ELEM_OF={wizard:'fire',babyd:'fire',flamer:'fire',bomber:'fire',prince:'fire',boar:'fire',boss:'fire',icem:'ice',golem:'ice',giant:'ice',musketeer:'thunder',sniper:'thunder',xbow:'thunder',minions:'thunder',lordknight:'thunder',greed:'poison',scarecrow:'poison',skarmy:'poison'};
 const RA_COMBOS={'fire|ice':['증발',0.25,'#ffd9a8','#ffb14d'],'ice|fire':['증발',0.25,'#ffd9a8','#ffb14d'],'fire|poison':['폭발',0.20,'#ffb14d','#ff8a3c'],'poison|fire':['폭발',0.20,'#ffb14d','#ff8a3c'],'thunder|ice':['감전',0.20,'#ffe95e','#fff2a8'],'ice|thunder':['감전',0.20,'#ffe95e','#fff2a8'],'ice|poison':['부식',0.10,'#a5e85c','#c8f09a'],'poison|ice':['부식',0.10,'#a5e85c','#c8f09a'],'thunder|poison':['격발',0.10,'#cf9dff','#ffe95e'],'poison|thunder':['격발',0.10,'#cf9dff','#ffe95e'],'thunder|fire':['융합',0.10,'#ffcf7a','#ffe08a'],'fire|thunder':['융합',0.10,'#ffcf7a','#ffe08a']};

diff --git a/royal-arena/js/g1b-art-assets.js b/royal-arena/js/g1b-art-assets.js
@@ -683,7 +683,7 @@ function towSkin(k,im){   /* v144: 타워 테마 스킨 — 용암/서리 틴트
 function drawTower(t){try{
       var __tc=(t.kind==='king'?'t_king':'t_princess')+(t.team==='blue'?'_b':'_r');
       var __im=(typeof TSPR!=='undefined')?TSPR[__tc]:null; if(__im) __im=towSkin(__tc,__im);   /* v144: 테마 스킨 적용 */
-      var __tsk=(t.kind!=='king')?__towSkinImg(S.theme):null; if(__tsk) __im=__tsk;   /* v324: 프린세스 타워 테마 스킨 */
+      var __tsk=__towSkinImg(S.theme,t.kind==='king',t.team); if(__tsk) __im=__tsk;   /* v324 → v483: 킹타워 포함 테마 스킨 */
       if(!(__im&&((__im.getContext)||(__im.complete&&__im.naturalWidth>0&&__im.__valid!==false)))){   /* v144: 틴트 캔버스 허용 */
         var x=t.x*TILE,y=t.y*TILE,king=t.kind==='king';
         var hs=king?128:100,ytop=Math.max(y+14-hs,6);
@@ -711,7 +711,7 @@ function drawTower(t){try{
     const hr=t.hp/t.maxHp, hs=king?128:100, ytop=Math.max(y+14-hs,6), by0=Math.max(ytop-18,10);
     ctx.fillStyle='rgba(0,0,0,.22)'; ctx.beginPath();
     ctx.ellipse(x,Math.min(y+10,ytop+hs-6),hs*0.42,hs*0.16,0,0,7); ctx.fill();
-    var __tsk2=(king?null:__towSkinImg(S.theme)); if(__tsk2) ctx.drawImage(__tsk2,x-hs/2,ytop,hs,hs); else ctx.drawImage(TSPR[tc],x-hs/2,ytop,hs,hs);   /* v324: 프린세스 타워 테마 스킨 */
+    var __tsk2=__towSkinImg(S.theme,king,t.team); if(__tsk2) ctx.drawImage(__tsk2,x-hs/2,ytop,hs,hs); else ctx.drawImage(TSPR[tc],x-hs/2,ytop,hs,hs);   /* v324 → v483: 킹타워 포함 테마 스킨 */
     if(hr<0.55){ ctx.strokeStyle='rgba(25,30,42,.7)'; ctx.lineWidth=2;
       ctx.beginPath(); ctx.moveTo(x-hs*0.2,ytop+hs*0.45); ctx.lineTo(x-hs*0.1,ytop+hs*0.62); ctx.lineTo(x-hs*0.17,ytop+hs*0.8); ctx.stroke(); }
     if(hr<0.25){ for(let i=0;i<3;i++){ const sy=((now*22+i*26)%50);
